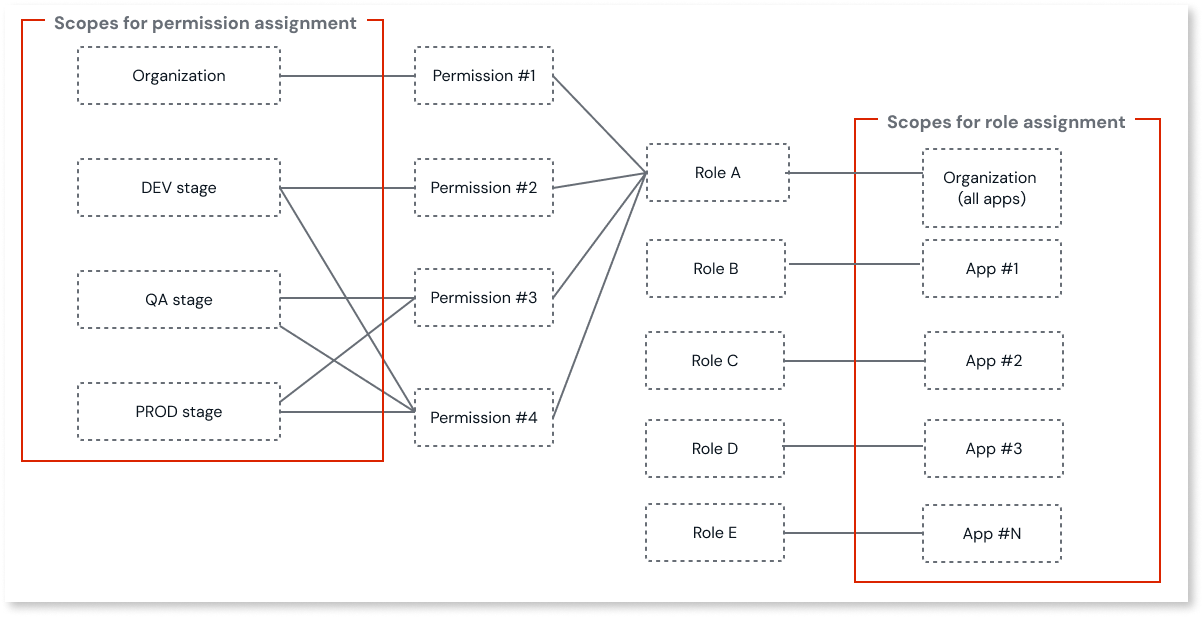
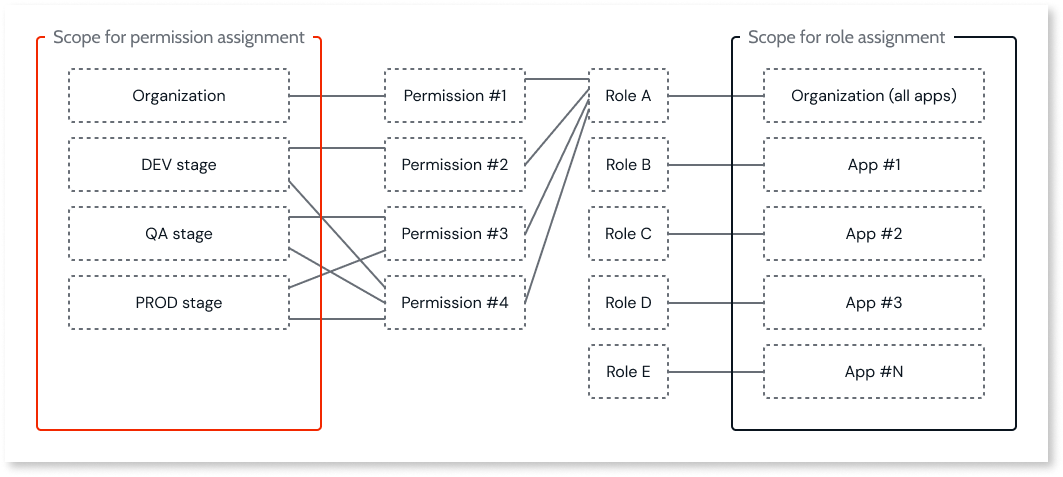
TK-16641 Update diagram, add style guide suggestions (#1739)

diff --git a/src/eap/user-management/roles.md b/src/eap/user-management/roles.md
@@ -27,7 +27,7 @@ This article covers permissions for [members (IT-users)](intro.md#members-it-use
 
 In ODC, you control what your members (IT-users) can do by assigning them roles. A role is a set of permissions that you can grant at the **organization** and **asset** (**app**) [**scopes**](intro.md#organization-app-stage-and-app-scope).
 
-ODC allows implementing user access control policies on the following domains:
+ODC allows implementing user access control policies on these domains:
 
 * Asset (apps and libraries) management
 * Stage visibility
@@ -50,20 +50,20 @@ The fundamental rule is that permissions are cumulative. A role assigned at the 
 
 <div class="info" markdown="1">
 
-An app-level role can grant additional permissions for that specific app, but it can never revoke permissions a user already has from an organization-level role.
+An app-level role can grant additional permissions for that specific app, but it can't revoke permissions a user already has from an organization-level role.
 
 </div>
 
 ### Permission scenarios
 
-Here’s how this principle works in practice.
+Here's how this principle works in practice.
 
 **Scenario 1: A more permissive role is assigned at the app level**
 :   A user has a general role for the organization but needs elevated permissions for one app:
 
     * Organization Role: Developer.
     * App Role: Administrator.
-    * Result: The user has Developer permissions across the organization. For the specific app where they are an Administrator, they gain the additional permissions of that role. For example, they can now manage that app's configurations in Production stage, a permission the Developer role doesn't have.
+    * Result: The user has Developer permissions across the organization. For the specific app where they're an Administrator, they gain the additional permissions of that role. For example, they can now manage that app's configurations in Production stage, a permission the Developer role doesn't have.
 
 **Scenario 2: A less permissive role is assigned at the app level**
 :   A user has a high-level role for the organization, and a more restrictive role is assigned for one app:
@@ -72,7 +72,7 @@ Here’s how this principle works in practice.
     * App Role: **Developer**.
     * Result: The organization-level permissions prevail. Since app-level roles can't remove permissions, the user remains an Administrator for the entire organization, including the specific app. The Developer role at the app level has no effect.
 
-## Types of roles for members (IT-users) { #types-of-roles }
+## Types of roles for members (IT-users) {#types-of-roles}
 
 ODC provides two types of roles for members (IT-users), built-in roles, and custom roles.
 
@@ -93,15 +93,15 @@ ODC includes two built-in organization roles:
 
 You can't delete or modify built-in roles, but you can duplicate them to create custom roles.
 
-To see the full list of permissions for the **Admin** or **Developer** role, in the ODC Portal, go to **Organization roles**, and then click **Admin** or **Developer**. Both roles are identified with the **Built-in role** label.
+To see the full list of permissions for the **Admin** or **Developer** role, in the ODC Portal, go to **Organization roles**, and then click **Admin** or **Developer**. Both roles display the **Built-in role** label.
 
-### Custom roles { #custom-roles }
+### Custom roles {#custom-roles}
 
-You can create custom roles to tailor permissions to your organization's needs. Custom roles let you select specific [permissions](#permissions-registry) and apply them at **organization** or **app stage** [scope](intro.md#organization-app-stage-and-app-scope). After creating a custom role, you need to assign it to users either at **organization scope** or to specific **apps**. For more details on how to create custom roles and how to assign a role to a user, refer to [Create custom roles for members](#create-custom-roles-for-it-users) and [Grant or revoke roles to members](grant-and-revoke-user-roles.md#grant-roles-to-members).
+You can create custom roles to tailor permissions to your organization's needs. Custom roles let you select specific [permissions](#permissions-registry) and apply them at **organization** or **app stage** [scope](intro.md#organization-app-stage-and-app-scope). After creating a custom role, you need to assign it to users either at **organization scope** or to specific **apps**. For more details on creating custom roles and assigning roles to users, refer to [Create custom roles for members](#create-custom-roles-for-it-users) and [Grant or revoke roles to members](grant-and-revoke-user-roles.md#grant-roles-to-members).
 
 For more details about recommended custom roles, refer to [Recommended custom roles for members (IT-users)](#recommended-custom-roles).
 
-## Create custom roles for members (IT-users) { #create-custom-roles-for-it-users }
+## Create custom roles for members (IT-users) {#create-custom-roles-for-it-users}
 
 To create a custom role for members, follow these steps:
 
@@ -111,13 +111,13 @@ To create a custom role for members, follow these steps:
 1. Select the permissions you want to assign. You may limit some [permissions](#permissions-registry) to specific stages if needed.  
 1. Click **Create** to save the role.
 
-## ODC permissions { #permissions-registry }
+## ODC permissions {#permissions-registry}
 
 The following table lists the permissions you can assign to custom roles. For more details on **organization** (global) and **asset** (**app**) scope, refer to [Organization, app stage, and app scope](intro.md#organization-app-stage-and-app-scope).
 
 <div class="info" markdown="1">
 
-Some permissions are automatically inherited by others to ensure consistent behavior and prevent errors. When configuring custom roles in the ODC Portal, selecting a permission may automatically select additional related permissions due to these dependencies.
+Some permissions are automatically inherited by others to ensure consistent behavior and prevent errors. When you configure custom roles in the ODC Portal, selecting a permission may automatically select additional related permissions due to these dependencies.
 
 </div>
 
@@ -162,14 +162,14 @@ Some permissions are automatically inherited by others to ensure consistent beha
 | Support                   | View all support cases             | Users can view all the organization's support cases.                                                                                                                                                        | Organization                         |
 | Subscriptions             | View subscription                  | Users can view the organization's subscription information.                                                                                                                                                 | Organization                         |
 
-## Recommended custom roles for members (IT-users) { #recommended-custom-roles }
+## Recommended custom roles for members (IT-users) {#recommended-custom-roles}
 
-As a general guideline, you can create the following custom roles based on the scope to use when assigning roles to a member:
+As a general guideline, you can create these custom roles based on the scope to use when assigning roles to a member:
 
 * **App scope**: Basic Developer, Tech Lead.
 * **Organization scope**: Basic Member, Architect, Tenant Admin.
 
-In this reference model, the **Architect** role is responsible for the ownership and lifecycle of the asset portfolio, including creating, deleting, and installing assets from Forge, as well as managing releases. The **Tenant Admin** role focuses on global infrastructure configurations, not on asset or release management. If a user needs both sets of permissions, assign the built-in **Admin** role, which combines all capabilities.  
+In this reference model, the **Architect** role owns and manages the asset portfolio lifecycle, including creating, deleting, and installing assets from Forge, as well as managing releases. The **Tenant Admin** role focuses on global infrastructure configurations, not on asset or release management. If a user needs both sets of permissions, assign the built-in **Admin** role, which combines all capabilities.  
 
 This approach supports a DevOps-oriented model, where delivery teams (**Tech Lead** + **Developers**) have full ownership of their assigned assets (and only theirs).
 
